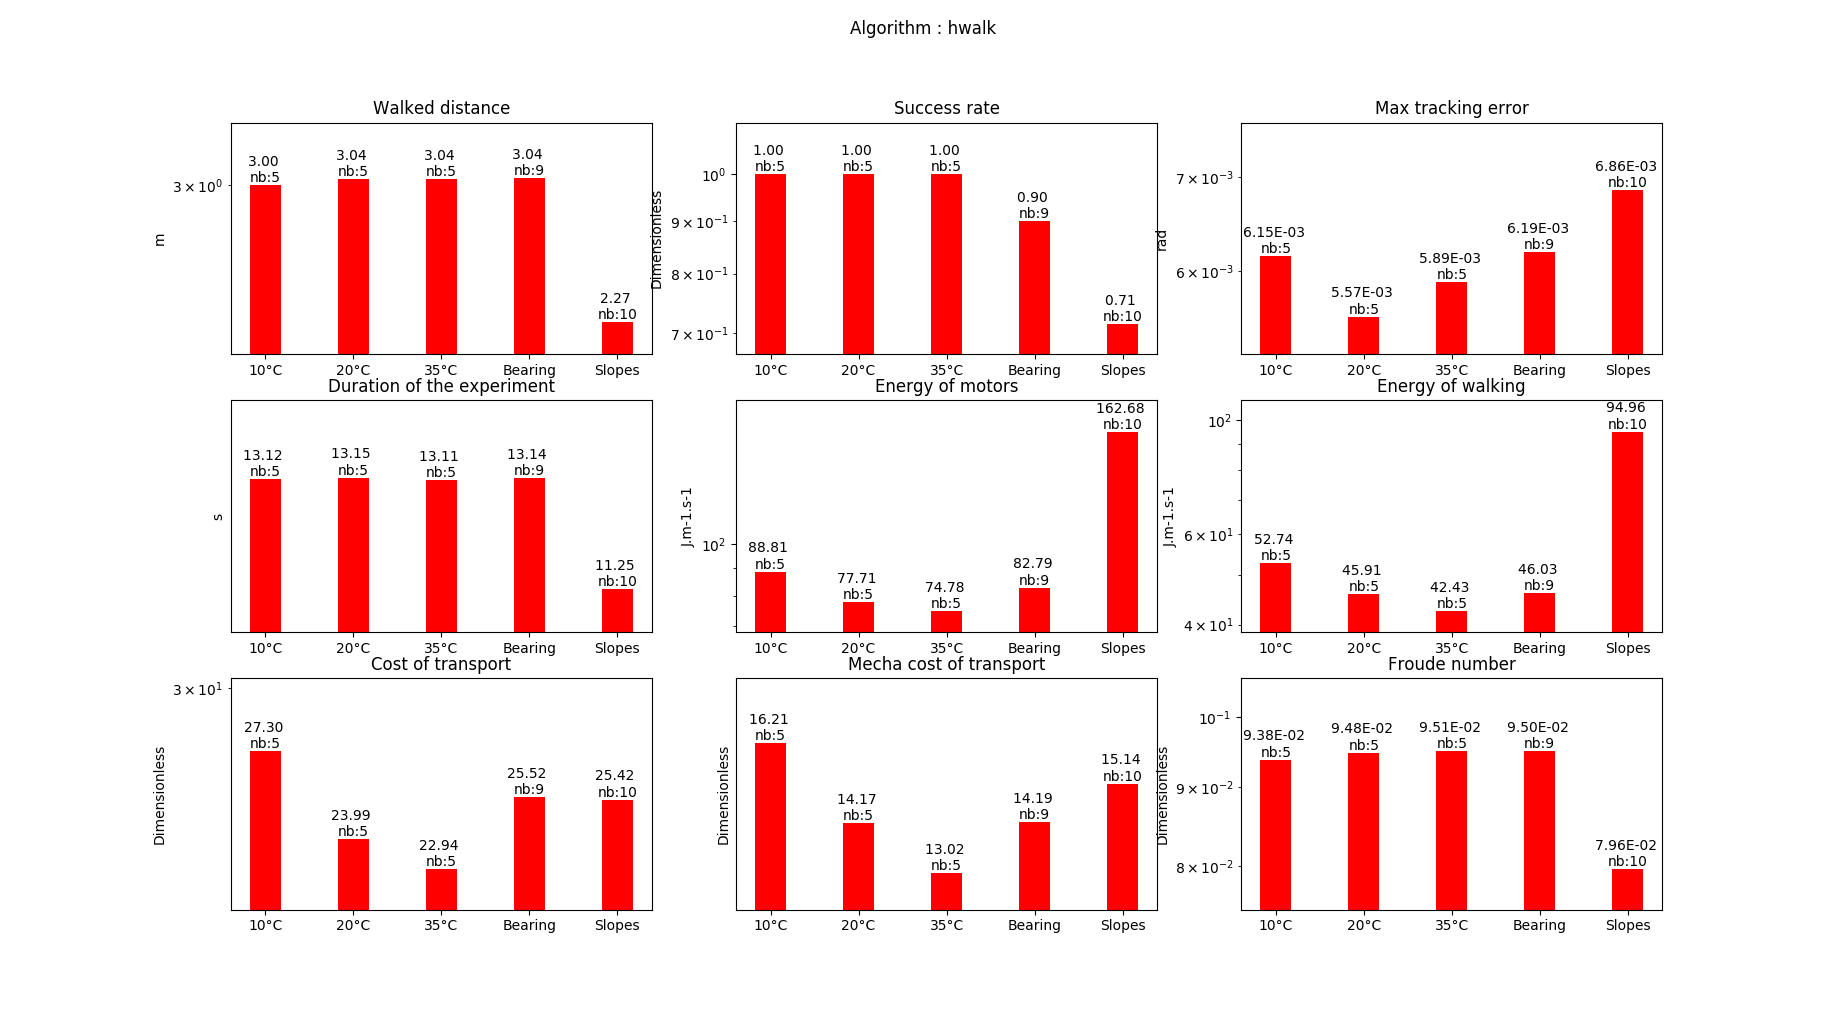
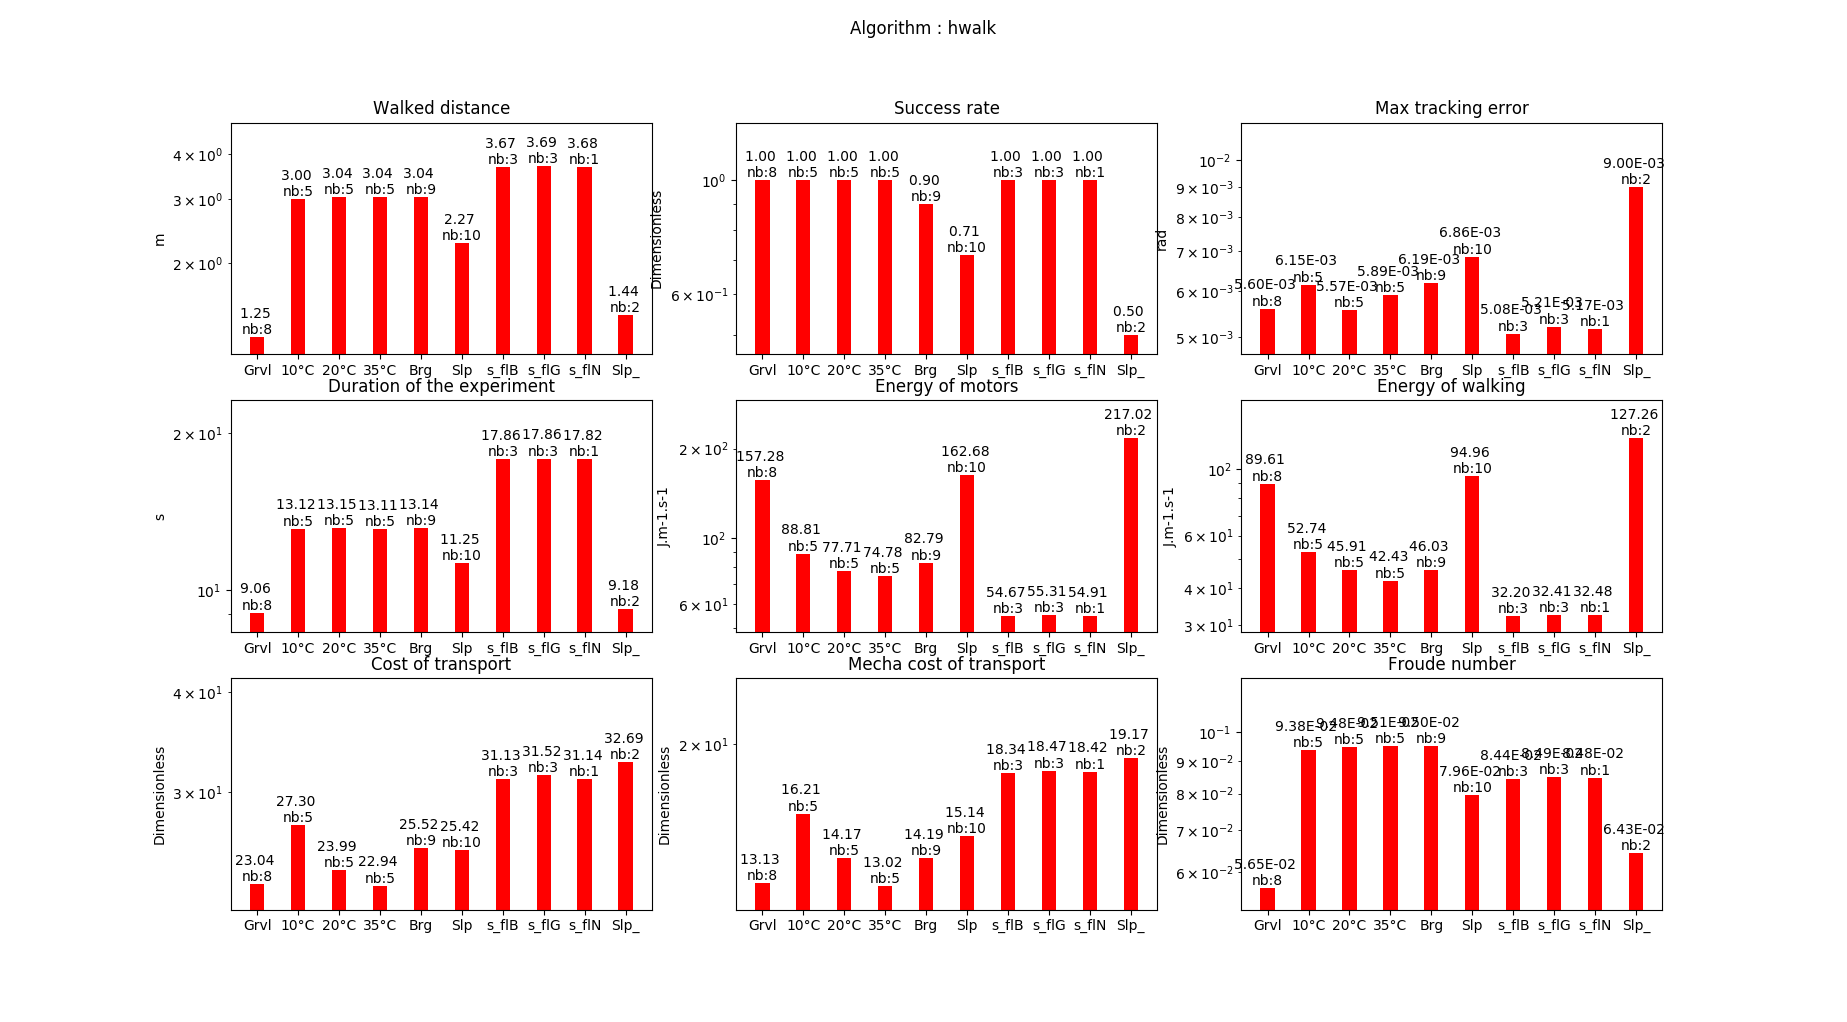
handle old kpi

diff --git a/src/make_plot.py b/src/make_plot.py
@@ -22,8 +22,11 @@ class XP :
         self.Froude_list = []
         self.algo = ""
         self.setup = ""
-        self.algo_dico = {"10cm":1,"15cm":2,"hwalk":3,"NPG":4,"Beam":5,"kawada":6}
-        self.setup_dico = {'degrees':1,'Bearing':2,'Pushes':3,'Slopes':4,'Translations\nFB':5,'Translations\nSIDE':6}
+        self.algo_dico = {"10cm":1,"15cm":2,"hwalk":3,"NPG":4,"Beam":5,"kawada":6,"Stepping stones":7,
+                          "Down step":8,"Muscode":9}
+        self.setup_dico = {'degrees':1,'Bearing':2,'Pushes':3,'Slopes':4,'Translations\nFB':5,'Translations\nSIDE':6,
+                           'Gravels':7,'Slip floor \nblack carpet':8,'Slip floor \ngreen carpet':9,
+                           'Slip floor \nnormal ground':10,"bricks":11,'Slopes_':12,"stairs_":13,"obstacle 20cm":14}
         self.kpi_list = ["Walked distance","Success rate","Max tracking error",
                          "Duration of the experiment","Energy of motors","Energy of walking",
                          "Cost of transport","Mecha cost of transport","Froude number"]
@@ -96,6 +99,21 @@ def discrimin_xp(header_file,header_line,list_lines_split):
             current_algo = "Beam"
         elif header_line[i].find("kawada") != -1:
             current_algo = "kawada"
+        elif header_line[i].find("SteppingStones") != -1:
+            current_algo = "Stepping stones"
+        elif header_line[i].find("gravles") != -1:
+            current_algo = "hwalk"
+        elif header_line[i].find("slipFloor") != -1:
+            current_algo = "hwalk"
+        elif header_line[i].find("climbSlope") != -1:
+            current_algo = "hwalk"
+        elif header_line[i].find("ClimbingWithTools") != -1:
+            current_algo = "10cm"
+        elif header_line[i].find("StepStairsDownSeq") != -1:
+            current_algo = "Down step"
+        elif header_line[i].find("stepOver") != -1:
+            current_algo = "Muscode"
+
         else :
             print "no algo pattern found in this line, \n",header_line[i]
             sys.exit(1)
@@ -105,15 +123,34 @@ def discrimin_xp(header_file,header_line,list_lines_split):
             deg_index = header_line[i].find("degrees")
             current_setup = header_line[i][(deg_index-2):deg_index]+"°C"
         elif header_line[i].find("Bearing") != -1:
-            current_setup = "Bearing"
+            current_setup = "Brg"#"Bearing"
         elif header_line[i].find("Pushes") != -1:
-            current_setup = "Pushes"
+            current_setup = "Psh"#"Pushes"
         elif header_line[i].find("Slopes") != -1:
-            current_setup = "Slopes"
+            current_setup = "Slp"#"Slopes"
         elif header_line[i].find("translation") != -1 and header_line[i].find("FB") != -1:
-            current_setup = "Translations_FB"
+            current_setup = "TrslFB"#"Translations_FB"
         elif header_line[i].find("translation") != -1 and header_line[i].find("SIDE") != -1:
-            current_setup = "Translations_SIDE"
+            current_setup = "TrslSD"#"Translations_SIDE"
+        elif header_line[i].find("gravles") != -1:
+            current_setup = "Grvl"#"Gravels"
+        elif header_line[i].find("slipFloor_backCarpet") != -1:
+            current_setup = "s_flB"#"Slip floor \nblack carpet"
+        elif header_line[i].find("slipFloor_greenCarpe") != -1:
+            current_setup = "s_flG"#"Slip floor \ngreen carpet"
+        elif header_line[i].find("slipFloor_normal_floor") != -1:
+            current_setup = "s_flN"#"Slip floor \nnormal ground"
+        elif header_line[i].find("SteppingStones") != -1:
+            current_setup = "Brk"#"bricks"
+        elif header_line[i].find("climbSlope") != -1:
+            current_setup = "Slp_"#"Slopes_"
+        elif header_line[i].find("ClimbingWithTools") != -1:
+            current_setup = "tool"#"stairs_"
+        elif header_line[i].find("StepStairsDownSeq") != -1:
+            current_setup = "Str_"#"stairs_"
+        elif header_line[i].find("stepOver") != -1:
+            current_setup = "obstacle 20cm"
+
             # if header_line[i].find("FB") != -1:
             #     current_direction="FB"
             # elif header_line[i].find("SIDE") != -1:
@@ -206,7 +243,7 @@ def mean_xp(xp_list) :
 def rm_absurd_values(xp):
 
     #remove pushes
-    if xp.setup == "Pushes":
+    if xp.setup == "Psh":
         print "+ experiment ", xp.algo, " ", xp.setup, " removed"
         return True
 
@@ -236,7 +273,7 @@ def rm_absurd_values(xp):
     # remove trials duration over 200s
     absurd_index_list = []
     #print "before duration over 200 : ", xp.WalkedDistance_list
-    if xp.algo=="kawada" or xp.setup=="Slopes":
+    if xp.algo=="kawada" or xp.setup=="Slp":
         pass
     else :
         for duration in (xp.DurationOfTheExperiment_list):
@@ -298,7 +335,7 @@ def rm_absurd_values(xp):
             return True
 
     # remove trials where the robot has fallen
-    if xp.algo=="kawada" or xp.setup=="Pushes"or (xp.algo=="NPG" and xp.setup=="10°C"):
+    if xp.algo=="kawada" or xp.setup=="Psh"or xp.algo=="Muscode" or(xp.algo=="NPG" and xp.setup=="10°C"):
         pass
     else :
         absurd_index_list = []
@@ -341,7 +378,7 @@ def plot_graph(list_mean_xp,xp_list) :
             # for setup in setup_list:
             #     if setup_list.count(setup)>1:
             #         setup_list.remove(setup)
-            tmp_kpi_list=["Intensity", "Max tracking error","Duration of the experiment"]
+            tmp_kpi_list=[ "Max tracking error","Duration of the experiment"] #"Intensity",
             fig, ax = plt.subplots(1, len(tmp_kpi_list))
             plt.suptitle("Algorithm : " + key)
             for k,kpi in enumerate(tmp_kpi_list):
@@ -368,6 +405,9 @@ def plot_graph(list_mean_xp,xp_list) :
                     #             direction_list.append(xp.setup+"\n"+xp.direction)
                     print "setup_list", setup_list
                     print "y_list", y_list
+
+                    nb_of_xp_list = [xp[-1] for xp in list_mean_xp if
+                                     xp_list[list_mean_xp.index(xp)].algo == key]  # get number of trials for xp
 
                     y_tuple = tuple(y_list)
                     setup_tuple = tuple(setup_list)
@@ -431,6 +471,8 @@ def plot_graph(list_mean_xp,xp_list) :
                     ax[j, k].set_xticklabels(setup_tuple)
                     ax[j, k].set_yscale('log')
                     if key=="NPG" and xp_tmp.kpi_list[jk]=="Max tracking error" :
+                        ax[j, k].set_ylim((ax[j, k].get_ylim()[0] * 0.95, ax[j, k].get_ylim()[1] * 1.25))
+                    elif key=="hwalk":
                         ax[j, k].set_ylim((ax[j, k].get_ylim()[0] * 0.95, ax[j, k].get_ylim()[1] * 1.25))
                     else:
                         ax[j, k].set_ylim((ax[j, k].get_ylim()[0]*0.95, ax[j, k].get_ylim()[1] * 1.105))
